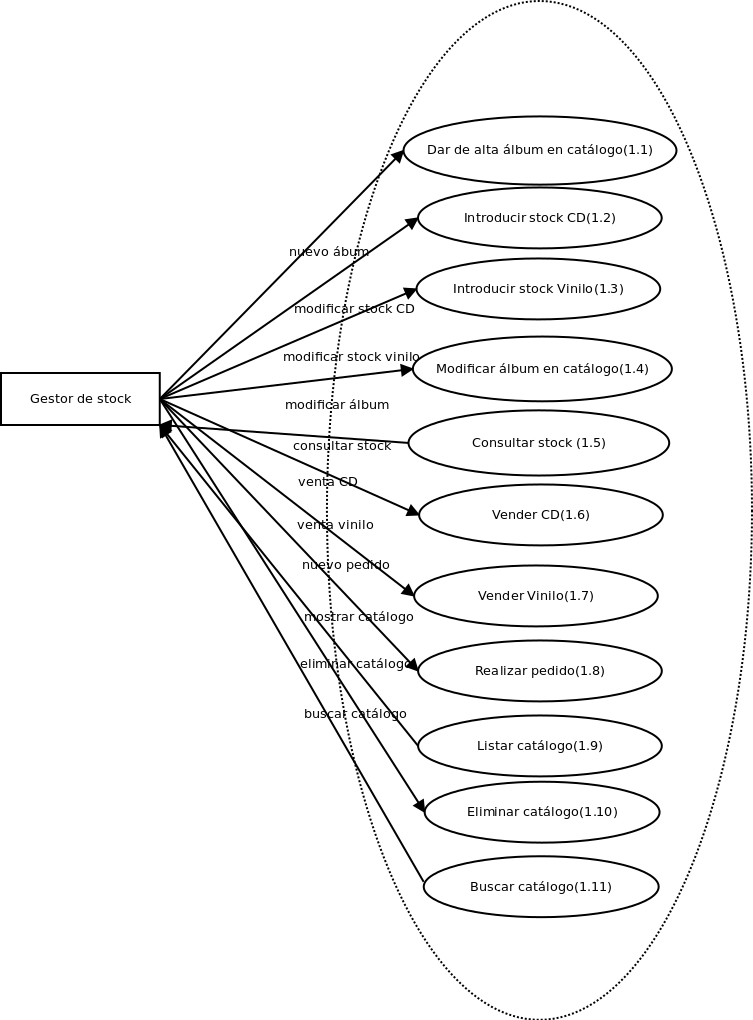
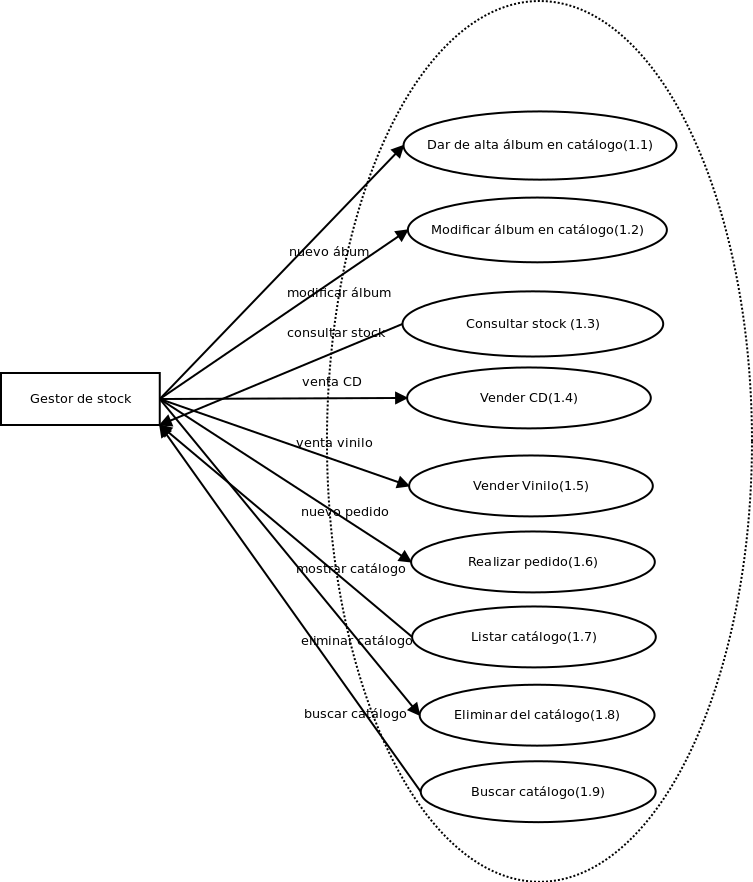
Actualiza los requisitos y sus diagramas

diff --git a/doc/memoria.md b/doc/memoria.md
@@ -67,28 +67,14 @@ Los usuarios del sistema serán el gestor de ventas, gestor de *stock* y gestor 
 * *Procesamiento:* Crear el perfil de un nuevo álbum.
 * *Salida:* Ninguna
 
-**RF2: Introducir el stock disponible en CD**
-
-* *Actor:* Gestor de *stock*
-* *Entrada:* RD2
-* *Procesamiento:* Introducir el stock disponible de un álbum en formato CD
-* *Salida:* Ninguna
-
-**RF3: Introducir el stock disponible en vinilo**
-
-* *Actor:* Gestor de *stock*
-* *Entrada:* RD3
-* *Procesamiento:* Introducir el stock disponible de un álbum en formato vinilo
-* *Salida:* Ninguna
-
-**RF4: Modificar información asociada a un álbum en el catálogo**
+**RF2: Modificar información asociada a un álbum en el catálogo**
 
 * *Actor:* Gestor de *stock*
 * *Entrada:* RD1 RD2 RD3
 * *Procesamiento:* Modificar la información asociada a un álbum
 * *Salida*: Ninguna.
 
-**RF5: Consultar stock de un elemento del catálogo**
+**RF3: Consultar stock de un elemento del catálogo**
 
 * *Actor:* Gestor de *stock*
 * *Entrada:* Identificador
@@ -98,47 +84,54 @@ Los usuarios del sistema serán el gestor de ventas, gestor de *stock* y gestor 
   - RD2
   - RD3
 
-**RF6: Vender CD**
+**RF4: Vender CD**
 
 * *Actor:* Gestor de *stock*
 * *Entrada:* Identificador de catálogo
-* *Procesamiento:* Generar la información asociada a una venta, con fecha de
-venta el día actual y disminuir el stock asociado al artículo.
+* *Procesamiento:* Generar la información asociada a una venta de CD, con fecha
+de venta el día actual y disminuir el stock asociado al artículo.
 * *Salida*: Ninguna
 
 
-**RF7: Vender Vinilo**
+**RF5: Vender Vinilo**
 
 * *Actor:* Gestor de *stock*
 * *Entrada:* Identificador de catálogo
-* *Procesamiento:* Generar la información asociada a una venta, con fecha de
-venta el día actual y disminuir el stock asociado al artículo.
+* *Procesamiento:* Generar la información asociada a una venta de vinilo, con
+fecha de venta el día actual y disminuir el stock asociado al artículo.
 * *Salida*: Ninguna
 
-**RF8: Listar catálogo**
+**RF6: Listar catálogo**
 
 * *Actor:* Gestor de *stock*
 * *Entrada:* Ninguna
 * *Procesamiento:* Genera un listado de elementos del catálogo
 * *Salida*: RD4 para cada elemento
 
-**RF9: Eliminar elemento del catálogo**
+**RF7: Eliminar elemento del catálogo**
 * *Actor:* Gestor de *stock*
 * *Entrada:* Identificador del catálogo
 * *Procesamiento:* Elimina un elemento del catálogo del comercio
 * *Salida*: Ninguna
 
 
-**RF10: Buscar en el catálogo**
+**RF8: Buscar en el catálogo**
 * *Actor:* Gestor de *stock*
 * *Entrada:* Cadena de caracteres a contrastar con título o grupo
 * *Procesamiento:* Genera un listado de elementos del catálogo cuyo título o
 grupo coinciden con la cadena de caracteres (o con una parte) introducida.
 * *Salida*: RD4 para cada elemento coincidente
 
+**RF9: Realizar pedido sobre elemento del catálogo**
+
+* *Actor:* Gestor de *stock*
+* *Entrada:* RD9
+* *Procesamiento:* Genera un pedido para un elemento del catálogo con sus datos.
+* *Salida*: Ninguna
+
 ### Funcionalidad "Gestión de ventas"
 
-**RF11: Consultar venta**
+**RF10: Consultar venta**
 
 * *Actor:* Gestor de ventas
 * *Entrada:* ID de venta
@@ -147,14 +140,14 @@ grupo coinciden con la cadena de caracteres (o con una parte) introducida.
   - RD5
   - RD6
 
-**RF12: Cancelar venta**
+**RF11: Cancelar venta**
 
 * *Actor:* Gestor de ventas
 * *Entrada:* ID de venta
 * *Procesamiento:* Elimina información asociada a una venta
 * *Salida*: Ninguna
 
-**RF13: Consultar álbum asociado**
+**RF12: Consultar álbum asociado**
 
 * *Actor:* Gestor de ventas
 * *Entrada:* Identificador de venta
@@ -164,97 +157,99 @@ grupo coinciden con la cadena de caracteres (o con una parte) introducida.
   - RD2
   - RD3
 
-**RF14: Modificar venta**
+**RF13: Modificar venta**
 
 * *Actor:* Gestor de ventas
 * *Entrada:* RD8
-* *Procesamiento:* Muestra los datos de stock del álbum vendido
+* *Procesamiento:* Modifica los datos de una venta
 * *Salida*: Ninguna
 
 
-**RF15: Listar histórico de ventas**
+**RF14: Listar histórico de ventas**
 
 * *Actor:* Gestor de *stock*
 * *Entrada:* Ninguna
-* *Procesamiento:* Genera un listado de ventas
+* *Procesamiento:* Genera el listado de ventas de todo el sistema
 * *Salida*: RD7 para cada elemento
 
 
-**RF16: Buscar en el histórico de ventas**
+**RF15: Buscar en el histórico de ventas**
 
 * *Actor:* Gestor de ventas
 * *Entrada:* Cadena de caracteres a contrastar con título, grupo o fecha de
 venta
 * *Procesamiento:* Genera un listado de ventas con título o
-grupo del álbum asociado coincidentes con la cadena de caracteres (o con una parte) introducida; o bien la fecha(o una parte de ella) coincide con lo
+grupo del álbum asociado coincidentes con la cadena de caracteres (o con una parte) introducida; o bien la fecha(o una parte de ella) coincidente con lo
 introducido.
 * *Salida*: RD7 para cada elemento coincidente
 
 ### Funcionalidad "Gestión de pedidos"
 
-**RF17: Realizar pedido**
+**RF16: Realizar pedido**
 
 * *Actor:* Gestor de pedidos
 * *Entrada:* RD9
 * *Procesamiento:* Generar la información de un pedido
 * *Salida*: Ninguna
 
-**RF18: Listar todos los pedidos**
+**RF17: Listar todos los pedidos**
 
 * *Actor:* Gestor de pedidos
 * *Entrada:* ID de pedido
 * *Procesamiento:* Mostrar información referente a todos los pedidos realizados
+ordenados por fecha de realización
 * *Salida*: RD9 para cada elemento
 
-**RF19: Listar todos los pedidos recibidos**
+**RF18: Listar todos los pedidos recibidos**
 
 * *Actor:* Gestor de pedidos
 * *Entrada:* Ninguna
 * *Procesamiento:* Mostrar información referente a todos los pedidos recibidos
+ordenados por fecha de entrada
 * *Salida*: RD9 para cada elemento
 
-**RF20: Listar todos los pedidos no recibidos**
+**RF19: Listar todos los pedidos no recibidos**
 
 * *Actor:* Gestor de pedidos
 * *Entrada:* Ninguna
 * *Procesamiento:* Mostrar información referente a todos los pedidos no
-recibidos
+recibidos ordenados por fecha de realización
 * *Salida*: RD9 para cada elemento
 
 
-**RF21: Listar todos los pedidos cancelados**
+**RF20: Listar todos los pedidos cancelados**
 
 * *Actor:* Gestor de pedidos
 * *Entrada:* Ninguna
 * *Procesamiento:* Mostrar información referente a todos los pedidos cancelados
+ordenados por fecha de cancelación
 * *Salida*: RD9 para cada elemento
 
 
-**RF22: Cancelar pedido**
+**RF21: Cancelar pedido**
 
 * *Actor:* Gestor de pedidos
 * *Entrada:* ID de pedido
 * *Procesamiento:* Cancelar un pedido, estableciendo una fecha de cancelación
 * *Salida*: Ninguna
 
-**RF23: Marcar pedido como recibido**
+**RF22: Marcar pedido como recibido**
 
 * *Actor:* Gestor de pedidos
 * *Entrada:* ID pedido
 * *Procesamiento:* Marcar un pedido como recibido en el comercio, y generar(o
 actualizar) la información de *stock* del álbum asociado.
-* *Salida*:
-  - RD1
-  - RD2 o RD3
+* *Salida*: Ninguna
 
-**RF24: Buscar en el histórico de pedidos**
+**RF23: Buscar en el histórico de pedidos**
 
 * *Actor:* Gestor de pedidos
 * *Entrada:* Cadena de caracteres a contrastar con título, grupo o fecha de
 realización del pedido
 * *Procesamiento:* Genera un listado de pedidos con título o
-grupo del álbum asociado coincidentes con la cadena de caracteres (o con una parte) introducida; o bien la fecha(o una parte de ella) coincide con lo
-introducido.
+grupo del álbum asociado coincidentes con la cadena de caracteres (o con una
+parte) introducida; o bien la fecha de realización(o una parte de ella)
+coincidente con lointroducido.
 * *Salida*: RD9 para cada elemento coincidente
 
 
@@ -264,7 +259,7 @@ introducido.
 * ID
 * Título (cadena de caracteres)
 * Grupo (cadena de caracteres)
-* Genero (cadena de caracteres)
+* Género (cadena de caracteres)
 * Foto (url)
 
 
@@ -287,7 +282,7 @@ introducido.
 * Grupo
 * Género
 
-**RD5: Datos de álbum mostrados en \underline{VENTA}**
+**RD5: Datos de catálogo mostrados en \underline{VENTA}**
 
 * Título
 * Grupo
@@ -310,7 +305,7 @@ introducido.
 **RD8: Datos modificables en \underline{VENTA}**
 
 * Fecha venta
-* Observaciones
+* Observaciones (cadena de caracteres)
 
 **RD9: Datos almacenados en \underline{PEDIDO}**
 
@@ -327,17 +322,18 @@ introducido.
 
 **RS1: Nuevo álbum en catálogo**
 
-Al dar de alta un álbum en el catálogo, el grupo, título e identificador
-no pueden ser vacíos,
+Al dar de alta un álbum en el catálogo, el grupo, título e identificador no
+pueden ser vacíos. Asimismo, el stock tanto en CD como en Vinilo por defecto
+debe ser 0.
 
 **RS2: Nueva venta**
 
-El precio del stock (ya sea CD o Vinilo asociado) no puede ser vacío.
-
+El precio del stock (ya sea CD o Vinilo asociado) no puede ser vacío al efectuar
+una venta.
 
 **RS3: Formato de venta**
 
-El formato de venta debe ser o bien CD o Vinilo.
+El formato de venta debe ser o bien CD(0) o Vinilo(1)
 
 **RS4: Fecha de venta**
 
@@ -360,8 +356,21 @@ Un pedido tendrá además de fecha de realización, fecha de entrada.
 **RS8: Pedido cancelado**
 
 Un pedido cancelado tendrá fecha de realización y fecha de cancelación, pero
-no puede tener fecha de entrada. Un pedido cancelado no puede recibirse una
-vez cancelado.
+no puede tener fecha de entrada.
+
+**RS9: Pedido cancelado o recibido**
+Un pedido cancelado no puede recibirse una vez cancelado. Asimismo un pedido
+recibido no puede cancelarse una vez recibido.
+
+**RS10: Nuevo pedido**
+
+Un pedido nuevo no puede tener título, grupo, cantidad o formato vacíos. La
+fecha de realización debe establecerse en la actual.
+
+**RS11: Actualizar Stock en pedido recibido**
+
+Si un disco ya existe en catálogo por título y grupo en base de datos, se
+actualiza su stock al recibir un pedido. Caso opuesto, se crea en catálogo.
 
 # Diseño
 
@@ -411,7 +420,7 @@ vez cancelado.
 
 ## Diseño lógico
 
-**Catálogo**(\pk{id}, Titulo, Grupo, Genero, Precio)
+**Catálogo**(\pk{id}, Título, Grupo, Género, Precio)
 
 **CD**(\pk{id}, Cantidad)
 
